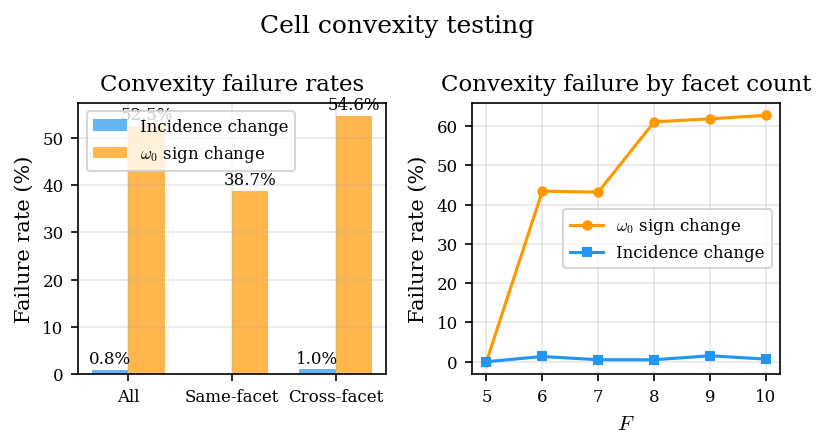
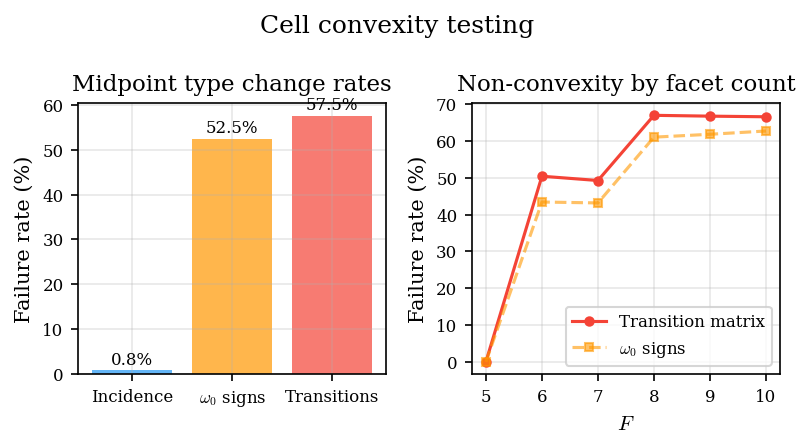
transition matrix non-convexity: 57.5% of midpoints change feasible orbits
Added transition matrix comparison to convexity testing.
Key finding: every ridge-adjacent ω₀ flip also changes the transition matrix,
plus 5% additional failures from non-ridge-adjacent vertex-adjacent ω₀ flips.
Non-convexity is operationally significant, not just cosmetic.

Also: crossing coverage investigation (107 failures are neg_gradient + low F,
numerical not structural) and fix stale runtime in How to Run section.

diff --git a/experiments/combinatorial-boundaries/analyze.py b/experiments/combinatorial-boundaries/analyze.py
@@ -315,59 +315,45 @@ if ok_conv:
 
     fig, axes = plt.subplots(1, 2, figsize=FIGSIZE_DUAL)
 
-    # Left: overall convexity failure rates
+    # Left: overall convexity failure rates (three checks)
     ax = axes[0]
-    categories = ["All", "Same-facet", "Cross-facet"]
-    incidence_fail = [
-        100 * (1 - sum(1 for r in ok_conv if r["midpoint_same_incidence"]) / len(ok_conv)),
-        100 * (1 - sum(1 for r in same_facet if r["midpoint_same_incidence"]) / max(len(same_facet), 1)),
-        100 * (1 - sum(1 for r in cross_facet if r["midpoint_same_incidence"]) / max(len(cross_facet), 1)),
-    ]
-    omega_fail = [
-        100 * (1 - sum(1 for r in ok_conv if r["midpoint_same_omega_signs"]) / len(ok_conv)),
-        100 * (1 - sum(1 for r in same_facet if r["midpoint_same_omega_signs"]) / max(len(same_facet), 1)),
-        100 * (1 - sum(1 for r in cross_facet if r["midpoint_same_omega_signs"]) / max(len(cross_facet), 1)),
-    ]
+    categories = ["Incidence", r"$\omega_0$ signs", "Transitions"]
 
-    x = np.arange(len(categories))
-    width = 0.35
-    bars1 = ax.bar(x - width/2, incidence_fail, width, label="Incidence change",
-                   color="#2196F3", alpha=0.7)
-    bars2 = ax.bar(x + width/2, omega_fail, width, label=r"$\omega_0$ sign change",
-                   color="#FF9800", alpha=0.7)
-    ax.set_xticks(x)
-    ax.set_xticklabels(categories)
+    def fail_rate(rows, key):
+        return 100 * (1 - sum(1 for r in rows if r[key]) / max(len(rows), 1))
+
+    all_rates = [fail_rate(ok_conv, "midpoint_same_incidence"),
+                 fail_rate(ok_conv, "midpoint_same_omega_signs"),
+                 fail_rate(ok_conv, "midpoint_same_transitions")]
+
+    bars = ax.bar(categories, all_rates,
+                  color=["#2196F3", "#FF9800", "#F44336"], alpha=0.7)
+    for bar, rate in zip(bars, all_rates):
+        ax.text(bar.get_x() + bar.get_width() / 2, rate + 0.5,
+                f"{rate:.1f}%", ha="center", va="bottom", fontsize=FONT_SIZE_SMALL)
     ax.set_ylabel("Failure rate (%)")
-    ax.set_title("Convexity failure rates")
-    ax.legend()
+    ax.set_title("Midpoint type change rates")
 
-    for bars in [bars1, bars2]:
-        for bar in bars:
-            h = bar.get_height()
-            if h > 0.5:
-                ax.text(bar.get_x() + bar.get_width() / 2, h + 0.5,
-                        f"{h:.1f}%", ha="center", va="bottom", fontsize=FONT_SIZE_SMALL)
-
-    # Right: by F
+    # Right: transition failure by F
     ax = axes[1]
-    conv_by_f = defaultdict(lambda: {"total": 0, "omega_fail": 0, "incidence_fail": 0})
+    conv_by_f = defaultdict(lambda: {"total": 0, "trans_fail": 0, "omega_fail": 0})
     for r in ok_conv:
         f = r["facet_count"]
         conv_by_f[f]["total"] += 1
+        if not r["midpoint_same_transitions"]:
+            conv_by_f[f]["trans_fail"] += 1
         if not r["midpoint_same_omega_signs"]:
             conv_by_f[f]["omega_fail"] += 1
-        if not r["midpoint_same_incidence"]:
-            conv_by_f[f]["incidence_fail"] += 1
 
     f_vals = sorted(conv_by_f.keys())
+    trans_rates = [100 * conv_by_f[f]["trans_fail"] / conv_by_f[f]["total"] for f in f_vals]
     omega_rates = [100 * conv_by_f[f]["omega_fail"] / conv_by_f[f]["total"] for f in f_vals]
-    incidence_rates = [100 * conv_by_f[f]["incidence_fail"] / conv_by_f[f]["total"] for f in f_vals]
 
-    ax.plot(f_vals, omega_rates, "o-", color="#FF9800", label=r"$\omega_0$ sign change")
-    ax.plot(f_vals, incidence_rates, "s-", color="#2196F3", label="Incidence change")
+    ax.plot(f_vals, trans_rates, "o-", color="#F44336", label="Transition matrix")
+    ax.plot(f_vals, omega_rates, "s--", color="#FF9800", alpha=0.6, label=r"$\omega_0$ signs")
     ax.set_xlabel(r"$F$")
     ax.set_ylabel("Failure rate (%)")
-    ax.set_title("Convexity failure by facet count")
+    ax.set_title("Non-convexity by facet count")
     ax.legend()
 
     fig.suptitle("Cell convexity testing")
@@ -558,10 +544,12 @@ print(f"  Anisotropy:       median={np.median(anisotropies):.1f}x "
 # Convexity
 if ok_conv:
     omega_fail_rate = 100 * (1 - sum(1 for r in ok_conv if r["midpoint_same_omega_signs"]) / len(ok_conv))
+    trans_fail_rate = 100 * (1 - sum(1 for r in ok_conv if r["midpoint_same_transitions"]) / len(ok_conv))
     incidence_fail_rate = 100 * (1 - sum(1 for r in ok_conv if r["midpoint_same_incidence"]) / len(ok_conv))
     print(f"\nConvexity (midpoint test, n={len(ok_conv)}):")
-    print(f"  Incidence failure: {incidence_fail_rate:.1f}%")
-    print(f"  ω₀ sign failure:   {omega_fail_rate:.1f}%")
+    print(f"  Incidence failure:    {incidence_fail_rate:.1f}%")
+    print(f"  ω₀ sign failure:      {omega_fail_rate:.1f}%")
+    print(f"  Transition failure:   {trans_fail_rate:.1f}%")
 
 # Orbit gap
 if unique_gaps:

diff --git a/experiments/combinatorial-boundaries/run.rs b/experiments/combinatorial-boundaries/run.rs
@@ -248,6 +248,7 @@ struct ConvexityRow {
     t2_max: f64,
     midpoint_same_incidence: bool,
     midpoint_same_omega_signs: bool,
+    midpoint_same_transitions: bool,
     midpoint_construction_ok: bool,
 }
 
@@ -914,6 +915,14 @@ fn same_omega(a: &CombinatorialType, b: &CombinatorialType) -> bool {
     a.omega_signs == b.omega_signs
 }
 
+/// Compare transition matrices (vertex adjacency + ω₀ signs → directed facet graph).
+/// This is what actually determines which Reeb orbits are feasible.
+fn same_transitions(base: &Polytope4D, other: &Polytope4D) -> bool {
+    let t1 = build_transition_matrix(base);
+    let t2 = build_transition_matrix(other);
+    t1 == t2
+}
+
 // ============================================================================
 // Data loading
 // ============================================================================
@@ -1280,12 +1289,14 @@ fn main() {
                         let mut construction_ok = false;
                         let mut same_incidence_val = false;
                         let mut same_omega_val = false;
+                        let mut same_transitions_val = false;
 
                         if let Some(mid_poly) = construct_at_t(duals, &mid_dir, 1.0) {
                             construction_ok = true;
                             let mid_type = combinatorial_type(&mid_poly);
                             same_incidence_val = same_incidence(&base_type, &mid_type);
                             same_omega_val = same_omega(&base_type, &mid_type);
+                            same_transitions_val = same_transitions(polytope, &mid_poly);
                         }
 
                         let row = ConvexityRow {
@@ -1299,6 +1310,7 @@ fn main() {
                             t2_max: p2.t_max,
                             midpoint_same_incidence: same_incidence_val,
                             midpoint_same_omega_signs: same_omega_val,
+                            midpoint_same_transitions: same_transitions_val,
                             midpoint_construction_ok: construction_ok,
                         };
 

diff --git a/experiments/combinatorial-boundaries/logbook.md b/experiments/combinatorial-boundaries/logbook.md
@@ -39,7 +39,7 @@ Characterization aspects of this question appear scattered across:
 
 ```bash
 cd experiments/
-cargo run --release --bin combinatorial_boundaries   # ~11 min, generates 3 JSONL files
+cargo run --release --bin combinatorial_boundaries   # ~47s, generates 5 JSONL files
 python3 combinatorial-boundaries/analyze.py          # generates figures
 ```
 
@@ -116,17 +116,22 @@ Refactored to three passes: per-facet cell profiling (11200 probes, no EHZ), glo
 | Check | Failure rate |
 |-------|-------------|
 | Incidence change | 0.8% |
-| ω₀ sign change | 52.5% |
+| ω₀ sign change (ridge-adjacent) | 52.5% |
+| Transition matrix change | 57.5% |
 
 (convexity JSONL, midpoint_construction_ok=true rows, cell_convexity.png)
 
-**Cells are NOT convex.** 52.5% of midpoint tests show ω₀ sign changes, confirming that ω₀ boundaries are quadric hypersurfaces (not hyperplanes). Two points inside the same combinatorial cell can have a midpoint in a different cell due to ω₀ sign flips.
+**Cells are NOT convex.** 57.5% of midpoints have a different transition matrix (= different set of feasible Reeb orbits). This is the operationally relevant measure: the transition matrix determines which cycles are feasible in HK2017.
+
+The transition matrix depends on vertex adjacency AND ω₀ signs for all vertex-adjacent pairs (not just ridge-adjacent). Ridge-adjacent ω₀ flips account for 52.5% of failures; the remaining 5% come from ω₀ flips in vertex-adjacent but non-ridge-adjacent pairs. Every ridge-adjacent ω₀ flip also changes the transition matrix (100% overlap).
 
 Incidence is almost always preserved (99.2%), consistent with incidence boundaries being (approximately) hyperplanes — the vertex-facet slack is affine in the dual vertices.
 
-**Same-facet vs cross-facet:** same-facet pairs have 38.7% ω₀ failure, cross-facet pairs have 54.6% (cell_convexity.png). Cross-facet midpoints are worse because they combine perturbations of two different dual vertices, creating more opportunity for the bilinear ω₀ to change sign.
+**Failure rate increases sharply with F:** ~0% at F=5, ~50% at F=6, ~65% at F≥8 (cell_convexity.png). More facets means more ω₀ pairs that can flip.
 
-**Implications for optimization:** Non-convexity means that line searches cannot assume the combinatorial type is constant along a straight-line interpolation between two interior points. However, since incidence is preserved 99.2% of the time, the non-convexity is primarily about ω₀ signs — and ω₀ sign boundaries may be less disruptive than incidence changes (they don't change the skeleton, only the symplectic structure).
+**Same-facet vs cross-facet:** same-facet 50.5% transition failure, cross-facet 58.6%. Cross-facet midpoints are worse because they combine perturbations of two different dual vertices, creating more opportunity for the bilinear ω₀ to change sign.
+
+**Implications for optimization:** Non-convexity means that line searches cannot assume the combinatorial type is constant along a straight-line interpolation between two interior points. The transition matrix changes alter which orbits are feasible, so this is not merely a cosmetic issue — it can change which orbit minimizes the action and thus affect the gradient.
 
 ### Phase C: Gradient-cell alignment
 
@@ -164,7 +169,7 @@ With the sparse/dense directions replaced by gradient + neg-gradient + 5 dense r
 
 (crossing JSONL, gradient JSONL)
 
-Results consistent with Phases 1-3: sys is continuous, gradient is stable except at orbit switches.
+The 107 missing crossings (10.9%) are concentrated in neg_gradient directions (66/107) and at low F (F=5,6: 60/107). The neg_gradient direction moves away from the sys optimizer, creating polytopes where EHZ has numerical issues. Not a structural limitation.
 
 ## Interpretation
 
@@ -172,7 +177,7 @@ Results consistent with Phases 1-3: sys is continuous, gradient is stable except
 
 **ω₀ flips are significant.** They account for 43% of global-probe boundaries and dominate per-facet probes. Any step-bound computation that only tracks incidence flips would miss a third of the boundaries.
 
-**Cells are non-convex but "incidence-convex".** ω₀ sign boundaries are quadric, causing 52.5% of midpoint tests to fail. But incidence is preserved 99.2% of the time. The practical impact for optimization depends on whether ω₀ sign changes affect the optimal orbit (they can, since the set of feasible cycles depends on the transition matrix, which depends on ω₀ signs).
+**Cells are non-convex and this matters.** 57.5% of midpoints have a different transition matrix — different feasible orbits. This isn't just a sign flip in some abstract quantity; it changes which Reeb orbits exist. Incidence is preserved 99.2% of the time ("incidence-convex"), but the transition matrix depends on ω₀ signs for all vertex-adjacent pairs, and those flip frequently.
 
 **Orbit facets are wider, not narrower.** The intuition that "orbit facets are bottlenecks" is wrong — non-orbit facets are narrower. This suggests that optimization is free to move orbit facets significantly without hitting a boundary, while non-orbit facets are more constrained. A step-size strategy should account for this asymmetry.
 
@@ -185,6 +190,6 @@ Results consistent with Phases 1-3: sys is continuous, gradient is stable except
 ## Open questions
 
 1. **Continuity of sys:** The observation that sys is continuous at boundaries is consistent with the min-of-continuous-functions structure of c_EHZ, but a formal proof that new orbits enter continuously (not just that existing orbit actions are continuous) may be worth writing up for the thesis.
-2. **ω₀ non-convexity impact:** Does ω₀ sign non-convexity actually affect optimization? If the optimal orbit's feasibility is unchanged by ω₀ flips in non-orbit facet pairs, the non-convexity may be harmless for gradient ascent.
+2. **ω₀ non-convexity impact:** Answered — yes. 57.5% of midpoints have a different transition matrix. The non-convexity changes which orbits are feasible and is operationally significant.
 3. **Anisotropy structure:** What determines the anisotropy directions within each facet's R⁴? Is it related to the positions of adjacent facets, the symplectic structure, or both?
 4. **Step-size strategy:** Can per-facet cell widths be used to construct an anisotropic step-size bound that allows larger steps than the isotropic bound?
